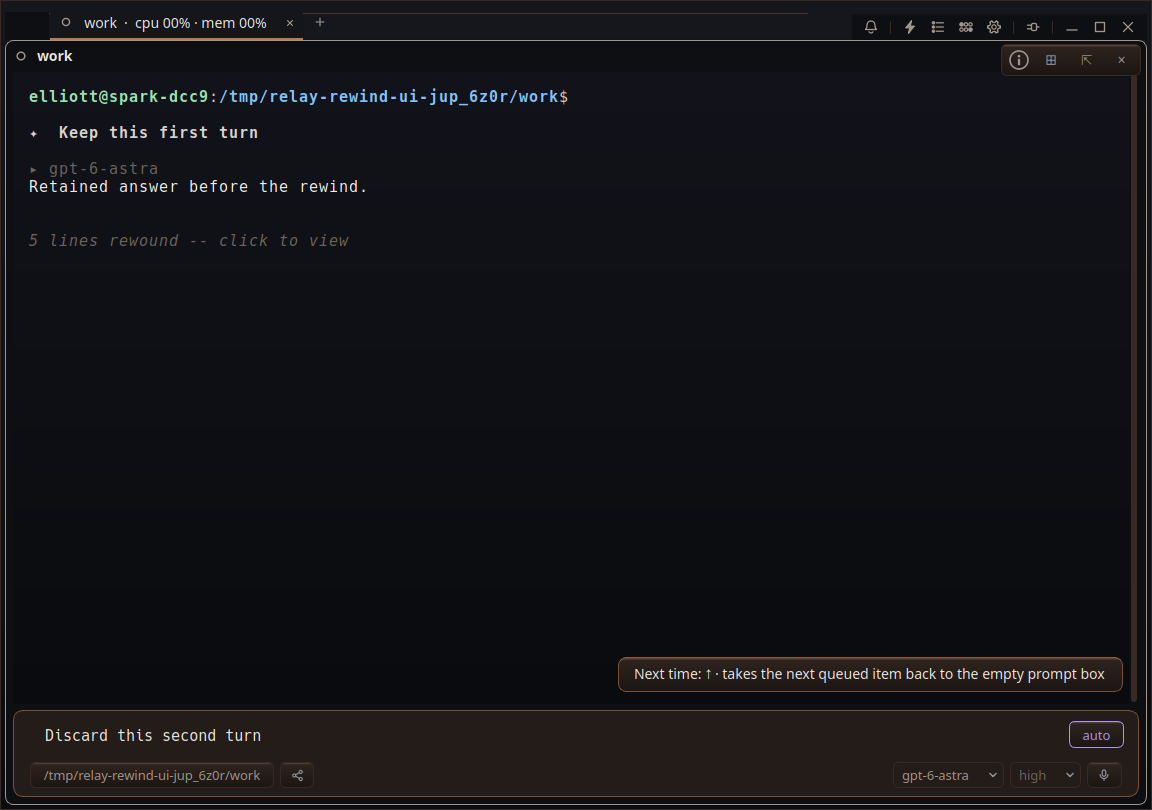
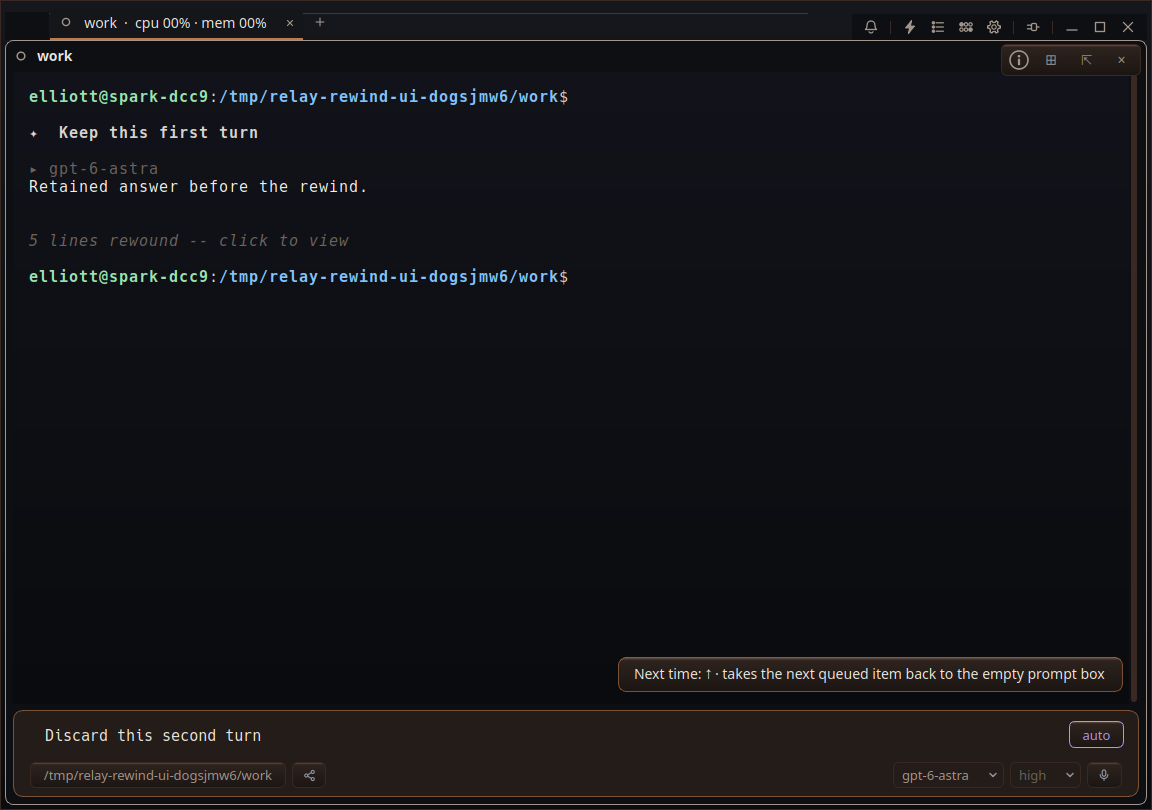
Refresh the shell prompt after rewind #RWND

Changed region(s): [[0.0312, 0.3086, 0.5, 0.3704], [0.375, 0.0926, 0.4375, 0.1543], [0.1562, 0.9568, 0.2188, 0.9877]]

diff --git a/src/Pane.h b/src/Pane.h
@@ -8524,6 +8524,9 @@ private:
             const QString note = event.value(QStringLiteral("note")).toString();
             if (!note.isEmpty()) printInline(note + '\n', Ink::Note);
             closeInline();
+            // The rebuild moved Readline's old prompt. Like saved-text replay, ask the idle
+            // shell for a fresh prompt so a later resize cannot redraw at its stale position.
+            if (collapsed && hasShell() && shellIdleAtPrompt()) sendShellInput(QStringLiteral("\n"));
             const QString prompt = event.value(QStringLiteral("prompt")).toString();
             // Rewind code keeps the chat, so the turn's prompt is not put back.
             if (!prompt.isEmpty() && restore != QStringLiteral("files") && m_editor->toPlainText().isEmpty()) {

diff --git a/docs/qa_evidence/2026-09-22-rewind/README.md b/docs/qa_evidence/2026-09-22-rewind/README.md
@@ -1,6 +1,6 @@
 # Rewind output — implementer evidence
 
-The real application was driven under Xvfb with temporary XDG directories and a fake worker (`drive.py`). Two turns were printed, the second was selected in the Rewind picker, and the resulting notice was clicked with the mouse. No provider calls or user settings were used.
+The real application was driven under Xvfb with temporary XDG directories and a fake worker (`drive.py`). Two turns were printed, the second was selected in the Rewind picker, and the resulting notice was clicked with the mouse. No provider calls or user settings were used. After collapse, an idle shell receives an empty input line to establish a fresh Readline prompt before opening the adjacent pane resizes it.
 
 - `rewind.png`: earlier answer remains; discarded turn is replaced by a gray italic “5 lines rewound -- click to view” notice with blank lines around it.
 - `viewer.png`: clicking that notice opens the saved branch in the adjacent file pane. The removed answer appears there and no longer appears in the terminal.

diff --git a/issues/threads/RWND.md b/issues/threads/RWND.md
@@ -19,3 +19,6 @@ Confirmed that rewind already saves a sidecar but never removes terminal output.
 
 <!-- relay:entry 20260923T000530Z-1c author=agent kind=event model=gpt-6-astra pane=93e86c4a turn=01a30cda1178410a84924898ce3792f3/3b1ef1924d854563a65bccbc8c34b2e6 -->
 - ✦ agent moved this card · Executing → Needs verification · Implemented and passed real-pane and serializer tests; live Xvfb rewind and click-to-open verified. · evidence docs/qa_evidence/2026-09-22-rewind/ · implemented_by openai/gpt-6-astra via codex
+
+<!-- relay:entry 20260923T000704Z-44 author=agent kind=event model=gpt-6-astra pane=93e86c4a turn=01a30cda1178410a84924898ce3792f3/3b1ef1924d854563a65bccbc8c34b2e6 -->
+- ✦ agent updated this card · links: {"plans": [], "commits": [], "evidence": ["docs/qa_evidence/2026-09-22-rewind/"]… → {"plans": [], "commits": ["ddc207b0c4af7afac0bd112e7c7b49c5e801ea01"], "evidence…

diff --git a/issues/changes/2026-09-22-collapse-rewound-output.md b/issues/changes/2026-09-22-collapse-rewound-output.md
@@ -8,7 +8,7 @@ implemented_by: openai/gpt-6-astra via codex
 rank: m
 created: '2026-09-22'
 source: User request in Relay, 2026-09-22
-links: {plans: [], commits: [], evidence: [docs/qa_evidence/2026-09-22-rewind/], related: [0TJ9], github: null}
+links: {plans: [], commits: [ddc207b0c4af7afac0bd112e7c7b49c5e801ea01], evidence: [docs/qa_evidence/2026-09-22-rewind/], related: [0TJ9], github: null}
 ---
 # Collapse rewound terminal output into a saved-output link
 
